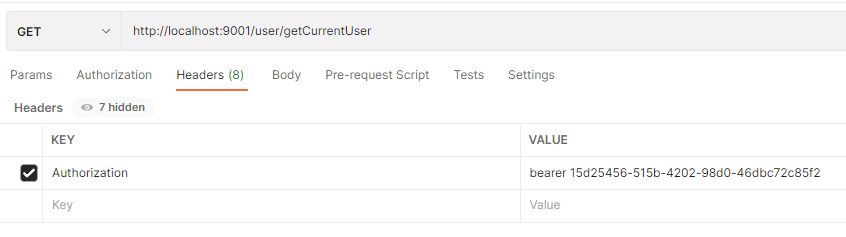
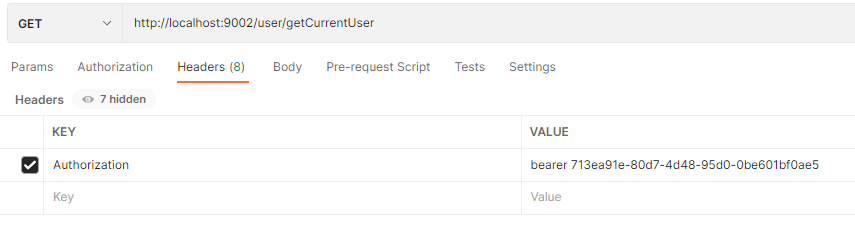
oauth2

diff --git a/js/javaList.js b/js/javaList.js
@@ -40,7 +40,8 @@ const javaList2 = [
             {url: "https://fgq233.github.io/md/security/springsecurity3", title: "SpringSecurity-3 授权"},
             {url: "https://fgq233.github.io/md/security/springsecurity4", title: "SpringSecurity-4 记住我功能"},
             {url: "https://fgq233.github.io/md/security/oauth2_1", title: "Oauth2 相关概念"},
-            {url: "https://fgq233.github.io/md/security/oauth2_2", title: "Oauth2 授权码模式、密码模式]"},
+            {url: "https://fgq233.github.io/md/security/oauth2_2", title: "Oauth2 授权码模式、密码模式"},
+            {url: "https://fgq233.github.io/md/security/oauth2_3", title: "Oauth2 基于数据库存储令牌"},
         ]
     },
 ];

diff --git a/md/security/oauth2_2.md b/md/security/oauth2_2.md
@@ -1,19 +1,17 @@
 ### OAuth2 授权码模式、密码模式
 使用 Spring Security 实现 OAuth2 入门案例
 
-### 一、创建认证服务器
-> 创建一个 oauth2-server 模块作为认证服务器、资源服务器来使用
+### 一、创建认证服务、资源服务
+#### 1. 创建聚合项目
+* 子模块 oauth2-server 服务作为`认证服务器`来使用
+* 子模块 oauth2-source 服务作为`资源服务器`来使用
 
-#### 1. pom.xml 相关依赖
+#### 2. pom.xml 相关依赖
 ```
+<!-- oauth2 包含 spring security -->
 <dependency>
     <groupId>org.springframework.cloud</groupId>
     <artifactId>spring-cloud-starter-oauth2</artifactId>
-</dependency>
-
-<dependency>
-    <groupId>org.springframework.cloud</groupId>
-    <artifactId>spring-cloud-starter-security</artifactId>
 </dependency>
 
 <dependency>
@@ -22,8 +20,8 @@
 </dependency>
 ```
 
-
-#### 2. application.yml 配置
+### 二、认证服务
+#### 1. application.yml 配置
 ```
 server:
   port: 9001
@@ -32,7 +30,7 @@ spring:
     name: oauth2-server
 ```
 
-#### 3. 实现 SpringSecurity 认证功能
+#### 2. 实现 SpringSecurity 认证功能
 参考[SpringSecurity 认证](https://fgq233.github.io/md/security/springsecurity2)
 
 * 实现 `UserDetailsService` 接口，用于加载用户信息
@@ -44,8 +42,7 @@ public class UserService implements UserDetailsService {
 
     private List<User> userList;
 
-    @PostConstruct
-    public void initData() {
+    private void initData() {
         String password = new BCryptPasswordEncoder().encode("123456");
         userList = new ArrayList<>();
         userList.add(new User("fgq1", password, AuthorityUtils.commaSeparatedStringToAuthorityList("admin")));
@@ -54,6 +51,7 @@ public class UserService implements UserDetailsService {
 
     @Override
     public UserDetails loadUserByUsername(String username) throws UsernameNotFoundException {
+        initData();
         List<User> list = userList.stream().filter(user -> user.getUsername().equals(username)).collect(Collectors.toList());
         if (!CollectionUtils.isEmpty(list)) {
             return list.get(0);
@@ -96,7 +94,7 @@ public class SecurityConfig extends WebSecurityConfigurerAdapter {
 ```
 
 
-#### 4. OAuth2 认证服务器配置
+#### 3. OAuth2 认证服务器配置
 ```
 @Configuration
 @EnableAuthorizationServer
@@ -114,10 +112,13 @@ public class AuthServerConfig extends AuthorizationServerConfigurerAdapter {
                 .refreshTokenValiditySeconds(864000)    
                 .redirectUris("http://www.baidu.com")   
                 .scopes("all")                          
+                .autoApprove(false)                       
                 .authorizedGrantTypes("authorization_code"); 
     }
 }
 ```
+
+客户端可以配置多个，用 `and()` 连接
 
 * `@EnableAuthorizationServer` 开启认证服务器配置
 * `inMemory()` 客户端信息存储在内存中
@@ -127,31 +128,60 @@ public class AuthServerConfig extends AuthorizationServerConfigurerAdapter {
 * `refreshTokenValiditySeconds()` 刷新`token`的有效期
 * `redirectUris()` 重定向地址`redirect_uri`，用于授权成功后跳转
 * `scopes()` 申请的权限范围
+* `autoApprove()` false 跳转到授权页面，true直接重定向并返回授权码
 * `authorizedGrantTypes()` 授权模式
     * `authorization_code`：授权码模式
     * `password`：密码模式
+    * `implicit`：简化模式
+    * `client_credentials`：密码模式
+    * `refresh_token`：刷新令牌
 
-#### 5. OAuth2 资源服务器配置
+
+
+### 三、资源服务
+#### 1. application.yml 配置
 ```
+server:
+  port: 9002
+spring:
+  application:
+    name: oauth2-source
+security:
+  oauth2:
+    client:
+      client-id: admin
+      client-secret: admin123456
+      access-token-uri: http://127.0.0.1:9001/oauth/token
+      user-authorization-uri: http://127.0.0.1:9001/oauth/authorize
+    resource:
+      token-info-uri: http://127.0.0.1:9001/oauth/check_token
+```
+
+
+#### 2. OAuth2 资源服务器配置
+```
+/**
+ * 资源服务器配置
+ */
 @Configuration
 @EnableResourceServer
+@EnableGlobalMethodSecurity(prePostEnabled = true, securedEnabled = true, jsr250Enabled = true)
 public class ResourceServerConfig extends ResourceServerConfigurerAdapter {
 
     @Override
     public void configure(HttpSecurity http) throws Exception {
         http.authorizeRequests()
+                .antMatchers("/user/**").hasAuthority("admin")
                 .anyRequest()
-                .authenticated()
-                .and()
-                .requestMatchers()
-                .antMatchers("/user/**");  
+                .authenticated();
+
     }
 }
 ```
 
 `@EnableResourceServer` 开启资源服务器配置
 
-#### 6. 添加测试接口
+#### 3. 添加测试接口
 ```
 @RestController
 @RequestMapping("/user")
@@ -166,29 +196,28 @@ public class UserController {
 ```
 
 
-#### 6. 启动服务
 
 
 
 
-### 二、OAuth2 端点
+### 四、OAuth2 端点
 #### 1. OAuth2 默认端点 URL
 * `/oauth/authorize`：授权端点
 * `/oauth/token`：令牌端点
 * `/oauth/confirm_access`：用户确认授权提交端点
 * `/oauth/error`：授权服务错误信息端点
 * `/oauth/check_token`：用于资源服务访问的令牌解析端点
-* `/oauth/token_key`：提供共有密钥的端点(使用JWT 令牌)
+* `/oauth/token_key`：提供共有密钥的端点(使用JWT令牌)
 
 #### 2. 测试步骤
-* 通过 `GET` 请求认证服务器获取授权码  
-* 通过 `POST` 请求，携带授权码，请求认证服务器获取令牌
-* 使用令牌，访问资源服务器的资源
+* 通过 `GET` 请求认证服务器 9001 获取授权码  
+* 通过 `POST` 请求，携带授权码，请求认证服务器 9001获取令牌
+* 使用令牌，访问资源服务器 9002 的资源
 
 
 
 
-### 三、测试
+### 五、测试
 #### 1. 请求认证服务器，获取授权码 
 在浏览器访问地址：`http://localhost:9001/oauth/authorize?response_type=code&client_id=admin`
 * `response_type`：授权模式，授权码模式是 `code`（必选项）
@@ -227,7 +256,7 @@ public class UserController {
 
 ```
 {
-    "access_token": "15d25456-515b-4202-98d0-46dbc72c85f2",
+    "access_token": "713ea91e-80d7-4d48-95d0-0be601bf0ae5",
     "token_type": "bearer",
     "expires_in": 3599,
     "scope": "all"
@@ -239,23 +268,9 @@ public class UserController {
 ![oauth2](https://fgq233.github.io/imgs/java/oauth2_8.png)
 
 
-使用令牌，访问：`http://localhost:9001/user/getCurrentUser`，可以成功访问
+使用令牌，访问：`http://localhost:9002/user/getCurrentUser`，可以成功访问
 
-```
-{
-    "password": null,
-    "username": "fgq1",
-    "authorities": [
-        {
-            "authority": "admin"
-        }
-    ],
-    "accountNonExpired": true,
-    "accountNonLocked": true,
-    "credentialsNonExpired": true,
-    "enabled": true
-}
-```
+
 
 
 

diff --git a/md/security/oauth2_3.md b/md/security/oauth2_3.md
@@ -1,0 +1,149 @@
+### OAuth2 基于数据库存储令牌
+* 认证服务器配置中：`clients.inMemory()` 是把客户端信息全部存储在内存当中
+* 本篇基于上一篇 [Oauth2 授权码模式、密码模式](https://fgq233.github.io/md/security/oauth2_2)
+
+### 一、数据库
+#### 1. 创建数据库、导入oauth2 相关表
+* `oauth_access_token`
+* `oauth_approvals`
+* `oauth_client_token`
+* `oauth_code`
+* `oauth_refresh_token`
+* `oauth_client_details` 客户端详情信息
+  * `client_id`：客户端标识
+  * `client_secret`：客户端密码，此处不能是明文，使用 `BCryptPasswordEncoder()` 加密即可
+  * `scope`：授权范围
+  * `authorized_grant_types`：授权模式
+  * `web_server_redirect_uri`：重定向地址
+
+插入2条客户端信息
+
+```
+INSERT INTO `oauth_client_details` (`client_id`, `client_secret`, `scope`, `authorized_grant_types`, `web_server_redirect_uri`) 
+	VALUES ('admin', '$2a$10$fVrt8ZZAvz47Ypa2wSZEGeVI3J.uwYlPr2fWQp7B/as3L5bxXbWAS', 'all', 'authorization_code,password', 'http://www.baidu.com');
+INSERT INTO `oauth_client_details` (`client_id`, `client_secret`, `scope`, `authorized_grant_types`, `web_server_redirect_uri`) 
+	VALUES ('dev', '$2a$10$fVrt8ZZAvz47Ypa2wSZEGeVI3J.uwYlPr2fWQp7B/as3L5bxXbWAS', 'all', 'authorization_code', 'http://www.baidu.com');
+```
+
+
+#### 2. pom.xml 添加数据库驱动、JDBC依赖
+```
+<dependency>
+    <groupId>mysql</groupId>
+    <artifactId>mysql-connector-java</artifactId>
+    <scope>runtime</scope>
+</dependency>
+<dependency>
+    <groupId>org.springframework.boot</groupId>
+    <artifactId>spring-boot-starter-jdbc</artifactId>
+</dependency>
+```
+
+#### 3. application.yml 配置
+```
+server:
+  port: 9001
+spring:
+  application:
+    name: oauth2-server-jdbc
+  datasource:
+    url: jdbc:mysql://127.0.0.1:3306/oauth2?useSSL=false&serverTimezone=UTC
+    username: root
+    password: 19931126
+    driver-class-name: com.mysql.cj.jdbc.Driver
+```
+ 
+ 
+ 
+### 二、认证服务器配置
+```
+/**
+ * 认证服务器配置
+ */
+@Configuration
+@EnableAuthorizationServer
+public class AuthServerConfig extends AuthorizationServerConfigurerAdapter {
+
+    @Autowired
+    private AuthenticationManager authenticationManager;
+
+    @Autowired
+    private DataSource dataSource;
+
+    
+    /**
+     * 客户端信息数据来源---来自数据库(oauth_client_details表)
+     */
+    @Bean
+    public JdbcClientDetailsService jdbcClientDetailsService() {
+        return new JdbcClientDetailsService(dataSource);
+    }
+    
+    /**
+     * 授权码保存策略---使用数据库存储(oauth_code表)
+     */
+    @Bean
+    public AuthorizationCodeServices authorizationCodeServices() {
+        return new JdbcAuthorizationCodeServices(dataSource);
+    }
+
+    /**
+     * token令牌保存策略---使用数据库存储(oauth_access_token表)
+     */
+    @Bean
+    public TokenStore jdbcTokenStore() {
+        return new JdbcTokenStore(dataSource);
+    }
+
+    /**
+     * token令牌管理
+     */
+    @Bean
+    public AuthorizationServerTokenServices tokenServices() {
+        DefaultTokenServices tokenServices = new DefaultTokenServices();
+        tokenServices.setClientDetailsService(jdbcClientDetailsService());    // 客户端信息数据来源
+        tokenServices.setSupportRefreshToken(true);             // 支持刷新 token
+        tokenServices.setTokenStore(jdbcTokenStore());          // token保存策略
+        tokenServices.setAccessTokenValiditySeconds(3600);      // token 有效期 1h
+        tokenServices.setRefreshTokenValiditySeconds(864000);   // 刷新令牌有效期 24h
+        return tokenServices;
+    }
+
+
+    
+//    ★★★★★★★★★★★★  主要是重写3个config()方法，配置 oauth2 客户端信息、端点数据存储、安全规则   ★★★★★★★★★★★★
+
+    /**
+     * 配置客户端信息数据来源
+     */
+    @Override
+    public void configure(ClientDetailsServiceConfigurer clients) throws Exception {
+        clients.withClientDetails(jdbcClientDetailsService());
+    }
+
+    /**
+     * oauth2 端点数据存储配置
+     */
+    @Override
+    public void configure(AuthorizationServerEndpointsConfigurer endpoints)  {
+        endpoints
+                .authenticationManager(authenticationManager)            // 认证管理器，密码模式需要
+                .authorizationCodeServices(authorizationCodeServices())  // 授权码管理
+                .tokenStore(jdbcTokenStore())                            // token存储
+                .tokenServices(tokenServices());                         // token令牌管理
+    }
+
+    /**
+     * oauth2 端点安全访问配置，也就是 OAuth2 自带的那几个端点 URL 安全约束
+     */
+    @Override
+    public void configure(AuthorizationServerSecurityConfigurer security) {
+        security.tokenKeyAccess("permitAll()")          // 放行 /oauth/token_key，不用认证就可以访问
+                .checkTokenAccess("isAuthenticated()")  // 开启 /oauth/check_token 安全认证，需要认证才可以访问
+                .allowFormAuthenticationForClients();   // 允许表单认证
+    }
+
+}
+```
+
+其他和基于内存存储基本一致

diff --git a/md/index/java.md b/md/index/java.md
@@ -58,8 +58,10 @@
 -  [SpringSecurity-4 记住我功能][springsecurity4]
 -  [Oauth2 执行流程、授权模式][oauth2_1]
 -  [Oauth2 授权码模式、密码模式][oauth2_2]
+-  [Oauth2 基于数据库存储令牌][oauth2_3]
 
 
+[oauth2_3]: https://fgq233.github.io/md/security/oauth2_3
 [oauth2_2]: https://fgq233.github.io/md/security/oauth2_2
 [oauth2_1]: https://fgq233.github.io/md/security/oauth2_1
 [springsecurity1]: https://fgq233.github.io/md/security/springsecurity1
